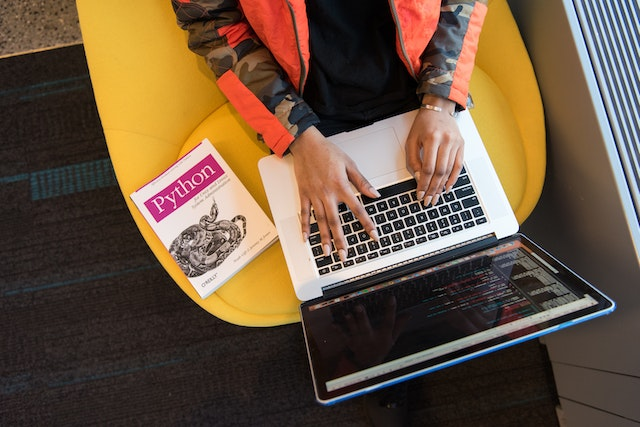
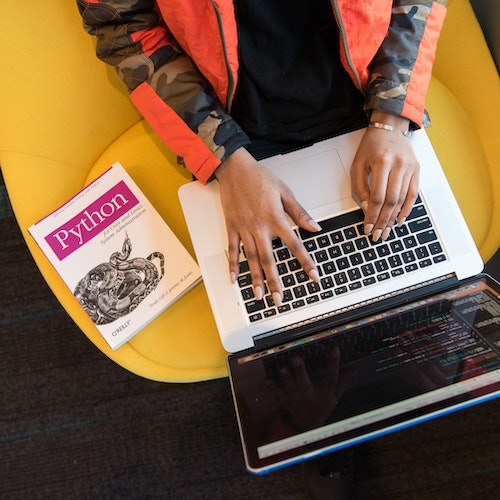
Atualizando pasta 2_HTML

diff --git a/2_HTML/desafio.html b/2_HTML/desafio.html
@@ -7,7 +7,7 @@
 </head>
 <body>
     <h1>Mulher Estudando</h1>
-    <img src="imagem/pexels-christina-morillo-1181359.jpg" alt="Mulher estudando">
+    <img src="imagens/pexels-christina-morillo-1181359.jpg" alt="Mulher estudando">
     <p>Mulher estudando linguagem de programação python.</p>
     <ul>
         <li>Livro</li>
